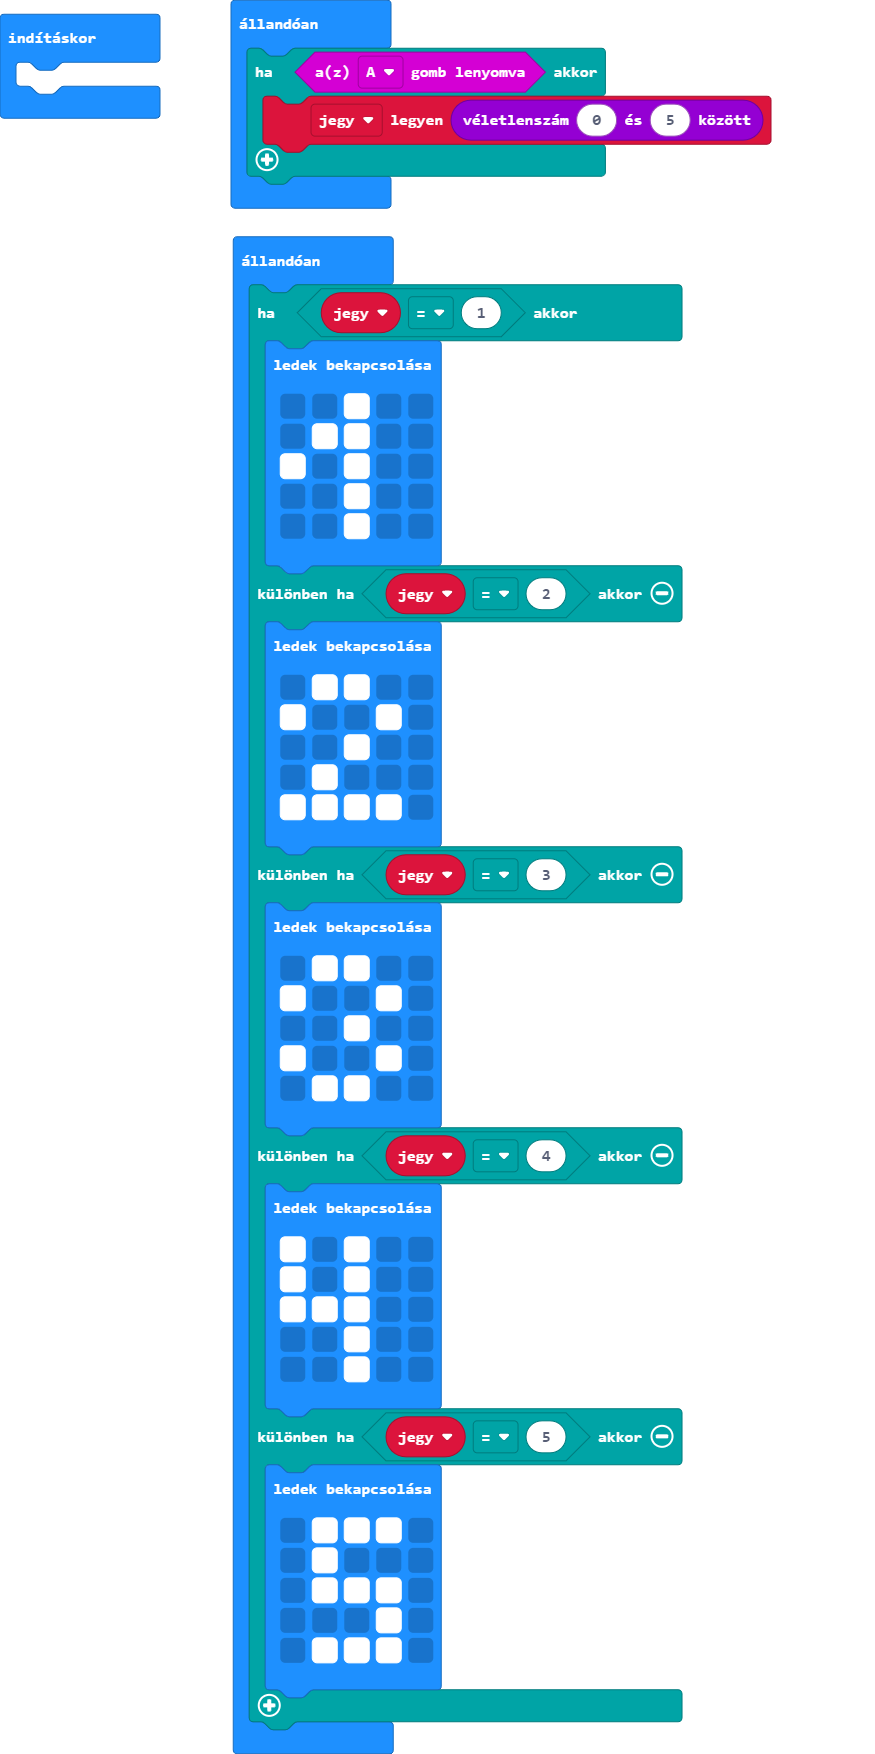
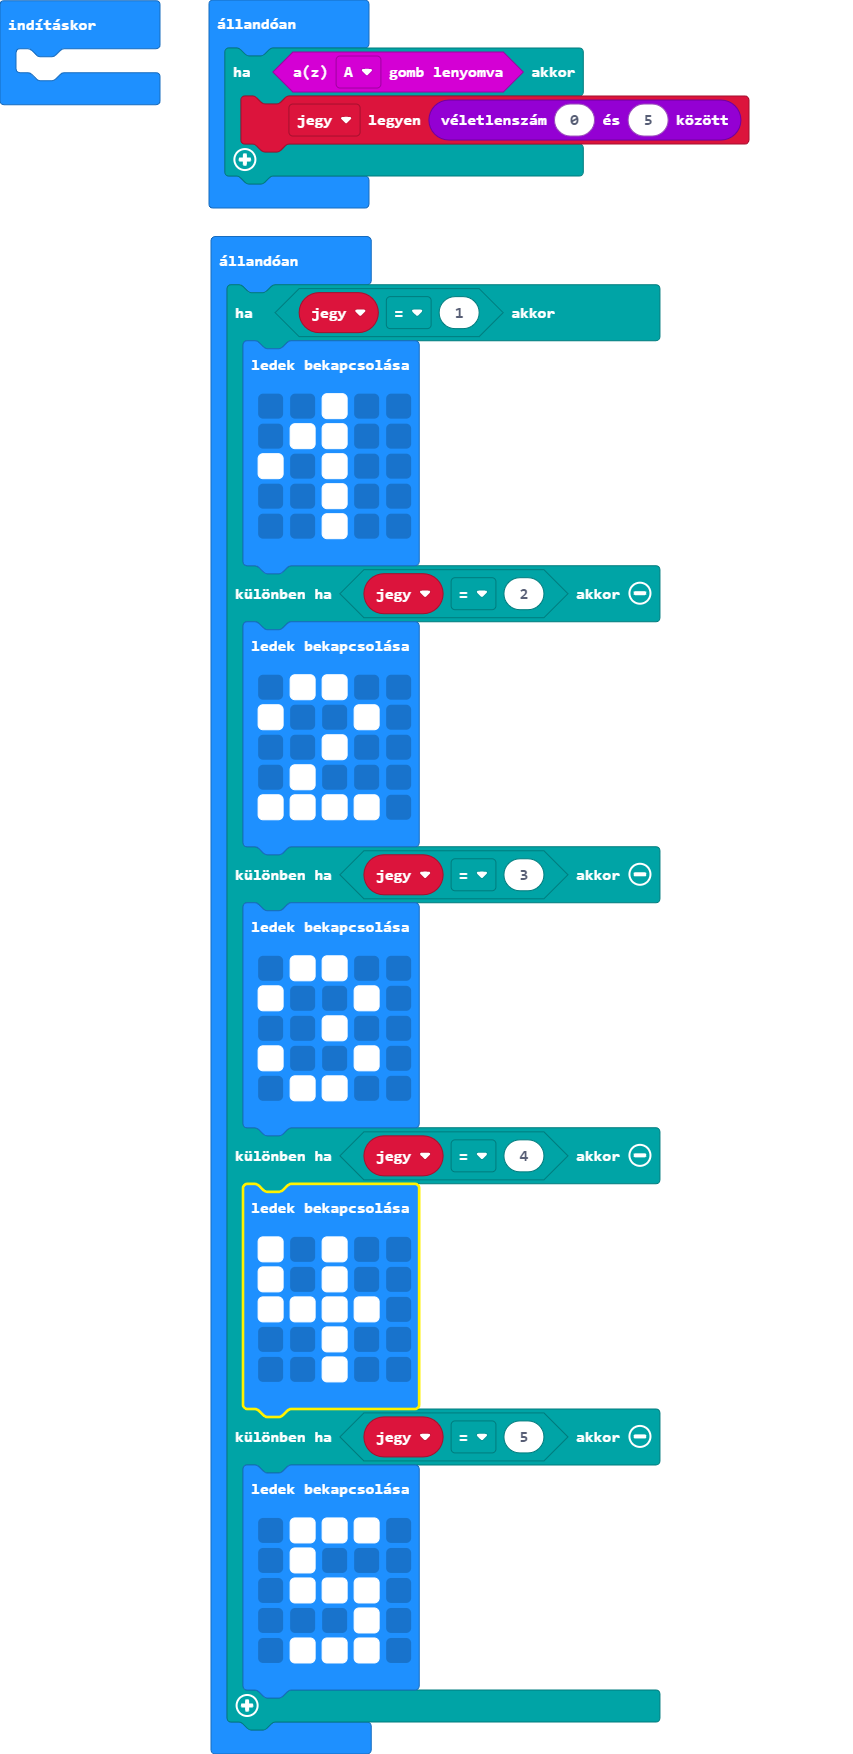
main.blocks, main.ts frissítése

diff --git a/main.ts b/main.ts
@@ -33,7 +33,7 @@ basic.forever(function () {
         basic.showLeds(`
             # . # . .
             # . # . .
-            # # # . .
+            # # # # .
             . . # . .
             . . # . .
             `)
